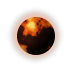
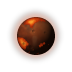
Mineral worlds: six new looks on one Mars-like surface
The six mineral world looks are redrawn on the same rusty surface as the
old iron world, each with one kind of lava from the old looks (seas,
rivers, cracks, a rift, pools, volcanoes), so mineral worlds read as one
kind of planet on the map. The other planet images are unchanged.

Claude-Session: https://claude.ai/code/session_01DRKpqnCyrZwnZLKGJij4TG

Changed region(s): [[0.2222, 0.2222, 0.75, 0.75], [0.6389, 0.6111, 0.7222, 0.6944], [0.5, 0.7222, 0.5556, 0.7778]]

diff --git a/tools/make_planet_types.py b/tools/make_planet_types.py
@@ -8,22 +8,24 @@ made from a make_art.py planet:
 and drawn fresh:
 
     planet-life1.png     planet.png redrawn: green land, blue seas, cloud, haze
-    planet-mineral1.png  planet5.png redrawn: black crust and glowing lava seas
     planet-dead1.png     planet6.png redrawn: grey regolith, plains, old craters
 
     planet-life2.png     continents of forest, savanna and desert in teal
                          seas, small polar caps
-    planet-mineral2.png  dark-red world with glowing veins
     planet-life3.png     ocean world: scattered islands under swirling cloud
-    planet-mineral3.png  dark red crust in plates, some rich in copper ore,
-                         with craters
     planet-dead3.png     dusty brown-grey world with dark basins and a rayed crater
     planet-life4.png     jungle: emerald forest, small lakes and rivers
     planet-life5.png     archipelago: turquoise seas, small sandy islands
     planet-life6.png     green continents, brown uplands, small deserts
-    planet-mineral4.png  iron world: rusty plains glittering with ore
-    planet-mineral5.png  pool world: dark rock pocked with small lava pools
-    planet-mineral6.png  volcanic world: grey-brown basalt, calderas, lava flows
+
+and six mineral worlds, all on the same rusty, Mars-like surface:
+
+    planet-mineral1.png  lava seas in the lowlands
+    planet-mineral2.png  thin lava rivers
+    planet-mineral3.png  plates split by wandering lava cracks
+    planet-mineral4.png  one long rift canyon with lava on its floor, ore, craters
+    planet-mineral5.png  many small lava pools
+    planet-mineral6.png  volcanoes: glowing calderas and lava flows
 
     tools/make_planet_types.py [--out ADDON_DIR]
 
@@ -126,25 +128,6 @@ def craters(src, rng, count=34, basins=0):
     return Image.fromarray(img.clip(0, 255).astype(np.uint8), "RGBA")
 
 
-def mineral_world(rng):
-    """Dark red rock cut by rivers of orange-red lava, in planet5's red glow."""
-    nx, ny, nz, inside = sphere_coords()
-    n = HEX * SS
-    rock = ramp(noise(rng, n, base=3), [(30, 9, 8), (56, 16, 12), (84, 24, 16), (104, 32, 20)])
-    # rivers: ridges of two noise fields, wide channels with a hot core
-    river = np.zeros((n, n), np.float32)
-    for b, wdt in ((4, 0.075), (7, 0.05)):
-        r = noise(rng, n, base=b, octaves=4)
-        river = np.maximum(river, np.clip(1 - np.abs(r - 0.5) / wdt, 0, 1))
-    river *= np.clip((noise(rng, n, base=3) - 0.12) * 3, 0, 1)   # a few breaks
-    lava = ramp(river, [(110, 20, 8), (170, 40, 10), (215, 70, 16), (240, 110, 30)])
-    s = shade(nx, ny, nz)
-    # keep the lava off the limb so the planet has a clean dark outline
-    m = np.clip(river * 2.2, 0, 1) * limb_fade(nx, ny)
-    m = m[..., None]
-    # lava glows on its own, a little dimmer on the night side
-    rgb = rock * s[..., None] * (1 - m) + lava * (0.6 + 0.4 * s)[..., None] * m
-    return textured_sphere(rgb, glow=(220, 60, 40), lit=True)
 
 
 def textured_sphere(rgb, glow=None, lift=None, atmo=None, lit=False):
@@ -223,44 +206,6 @@ def limb_fade(nx, ny, start=0.82):
     return np.clip((1 - np.sqrt(nx ** 2 + ny ** 2)) / (1 - start), 0, 1)
 
 
-def mineral_world3(rng):
-    """A few huge dark continents of rock, split here and there by thin
-    orange cracks of lava."""
-    nx, ny, nz, inside = sphere_coords()
-    n = HEX * SS
-    # wobble the normals so the cracks wander instead of running straight
-    w = 0.10
-    wx, wy, wz = (noise(rng, n, base=5, octaves=5) - 0.5 for _ in range(3))
-    v = np.stack([nx + w * wx, ny + w * wy, nz + w * wz], -1).reshape(-1, 3)
-    v /= np.linalg.norm(v, axis=1, keepdims=True)
-    pts = rng.normal(size=(14, 3))
-    pts /= np.linalg.norm(pts, axis=1, keepdims=True)
-    ang = np.arccos(np.clip(v @ pts.T, -1, 1))
-    order = np.argsort(ang, axis=1)
-    first, second = order[:, 0], order[:, 1]
-    gap = (np.take_along_axis(ang, order[:, 1:2], 1) - np.take_along_axis(ang, order[:, :1], 1))[:, 0]
-    # only some borders crack open; the rest are solid rock
-    k = len(pts)
-    opened = rng.random((k, k)) < 0.6
-    opened = opened | opened.T
-    crack = opened[first, second] * np.clip(1 - gap / 0.02, 0, 1)
-    crack = crack.reshape(n, n) * limb_fade(nx, ny)
-    warm = (opened[first, second] * np.clip(1 - gap / 0.07, 0, 1)).reshape(n, n) * limb_fade(nx, ny)
-    tone = rng.random(k)[first].reshape(n, n)
-    grain = noise(rng, n, base=6, octaves=6)
-    rock = ramp(np.clip(0.45 * tone + 0.55 * grain, 0, 1),
-                [(48, 15, 13), (76, 24, 17), (108, 36, 22), (138, 52, 30)])
-    fine = noise(rng, n, base=14, octaves=3)
-    rock *= (0.72 + 0.56 * fine)[..., None]                # rough, mottled rock
-    low = np.clip((0.42 - noise(rng, n, base=4, octaves=4)) * 4, 0, 0.5)[..., None]
-    rock = rock * (1 - low) + np.array([34, 11, 10], np.float32) * low   # dark lowlands
-    # the rock beside a crack is heated a dull red
-    rock = rock * (1 - 0.5 * warm[..., None]) + np.array([150, 40, 16], np.float32) * 0.5 * warm[..., None]
-    s = shade(nx, ny, nz)
-    hot = np.array([250, 120, 30], np.float32) * (0.7 + 0.3 * s)[..., None]
-    c = crack[..., None]
-    rgb = rock * s[..., None] * (1 - c) + hot * c
-    return textured_sphere(rgb, glow=(220, 60, 40), lit=True)
 
 
 def spend(rng, *bases):
@@ -308,20 +253,6 @@ def life_world1(rng):
     return textured_sphere(rgb, glow=(120, 170, 255), atmo=(140, 190, 255))
 
 
-def mineral_world1(rng):
-    """planet5.png's molten world, redrawn: a black crust split by seas of
-    lava that glow yellow at their hearts and on the night side too."""
-    nx, ny, nz, inside = sphere_coords()
-    n = HEX * SS
-    melt = 0.6 * noise(rng, n, base=8, octaves=5) + 0.4 * noise(rng, n, base=3)
-    shore = np.quantile(melt[inside], 0.6)      # lava covers about 40%
-    crust = ramp(noise(rng, n, base=8), [(34, 14, 12), (60, 24, 16), (86, 36, 22)])
-    heat = np.clip((melt - shore) / 0.25, 0, 1)
-    lava = ramp(heat, [(150, 30, 8), (225, 80, 12), (255, 150, 30), (255, 220, 110)])
-    m = np.clip((melt - shore) * 30, 0, 1)
-    s = shade(nx, ny, nz)
-    rgb = crust * s[..., None] * (1 - m[..., None]) + lava * (0.55 + 0.45 * s)[..., None] * m[..., None]
-    return textured_sphere(rgb, glow=(255, 110, 50), lit=True)
 
 
 def dead_world1(rng):
@@ -394,72 +325,143 @@ def life_world6(rng):
     return textured_sphere(rgb, glow=(120, 180, 255), atmo=(150, 200, 255))
 
 
-def mineral_world4(rng):
-    """Iron world: rusty oxide plains and darker iron highlands, glittering
-    with flecks of copper and gold ore."""
-    nx, ny, nz, inside = sphere_coords()
-    n = HEX * SS
-    rgb = ramp(noise(rng, n, base=4, octaves=6), [(60, 22, 14), (110, 44, 22), (150, 66, 30), (176, 92, 46)])
-    high = np.clip((noise(rng, n, base=3, octaves=5) - 0.55) * 4, 0, 0.6)[..., None]
-    rgb = rgb * (1 - high) + np.array([46, 34, 32], np.float32) * high
-    fl = (rng.random((n, n)) < 0.004).astype(np.float32)
-    fl = np.asarray(Image.fromarray((fl * 255).astype(np.uint8)).filter(ImageFilter.MaxFilter(5)), np.float32) / 255
-    fl *= np.clip((noise(rng, n, base=5) - 0.35) * 3, 0, 1)
-    gold = np.where(rng.random((n, n)) < 0.5, 1.0, 0.0)[..., None]
-    ore = np.array([240, 200, 90], np.float32) * gold + np.array([230, 130, 70], np.float32) * (1 - gold)
-    rgb = rgb * (1 - fl[..., None]) + ore * fl[..., None]
-    return craters(textured_sphere(rgb, glow=(210, 90, 50)), rng, count=8)
 
+
+
+
+
+
+# The mineral worlds all share a Mars-like rusty surface (mars()), each with
+# its own kind of lava on it.
+MARS_GLOW = (210, 90, 50)
+
+def mars(rng):
+    n = HEX * SS
+    """Mineral v4's rusty base: oxide plains, dark iron highlands, pale dust."""
+    rgb = ramp(noise(rng, n, base=4, octaves=6), [(70, 26, 16), (118, 48, 24), (156, 70, 32), (182, 98, 50)])
+    high = np.clip((noise(rng, n, base=3, octaves=5) - 0.55) * 4, 0, 0.6)[..., None]
+    rgb = rgb * (1 - high) + np.array([52, 34, 30], np.float32) * high
+    dust = np.clip((noise(rng, n, base=5, octaves=4) - 0.62) * 3, 0, 0.35)[..., None]
+    rgb = rgb * (1 - dust) + np.array([200, 130, 80], np.float32) * dust
+    return rgb
+
+def lava_blend(rgb, heat, s, nx, ny, pal=None, k=1.8):
+    """Lava over rgb where heat > 0, faded off the limb, glowing at night too."""
+    heat = heat * limb_fade(nx, ny)
+    pal = pal or [(120, 24, 8), (195, 56, 12), (236, 100, 22), (252, 160, 46)]
+    lava = ramp(heat, pal)
+    h = np.clip(heat * k, 0, 1)[..., None]
+    return rgb * (1 - h) + lava * (0.7 + 0.3 * s)[..., None] * h
+
+def mineral_world1(rng):
+    """Mars with a few lava seas in its lowlands (v1)."""
+    n = HEX * SS
+    nx, ny, nz, inside = sphere_coords()
+    s = shade(nx, ny, nz)
+    rgb = mars(rng) * s[..., None]
+    melt = 0.6 * noise(rng, n, base=6, octaves=5) + 0.4 * noise(rng, n, base=3)
+    shore = np.quantile(melt[inside], 0.78)
+    heat = np.clip((melt - shore) / 0.18, 0, 1)
+    rgb = lava_blend(rgb, np.clip(heat * 0.85 + (melt > shore) * 0.15, 0, 1), s, nx, ny, k=6)
+    return craters(textured_sphere(rgb, glow=MARS_GLOW, lit=True), rng, count=6)
+
+def mineral_world2(rng):
+    """Mars cut by thin orange-red lava rivers (v2)."""
+    n = HEX * SS
+    nx, ny, nz, inside = sphere_coords()
+    s = shade(nx, ny, nz)
+    rgb = mars(rng) * s[..., None]
+    river = np.zeros((n, n), np.float32)
+    for b, w in ((4, 0.04), (7, 0.028)):
+        r = noise(rng, n, base=b, octaves=4)
+        river = np.maximum(river, np.clip(1 - np.abs(r - 0.5) / w, 0, 1))
+    river *= np.clip((noise(rng, n, base=3) - 0.2) * 3, 0, 1)
+    return textured_sphere(lava_blend(rgb, river, s, nx, ny, k=2.2), glow=MARS_GLOW, lit=True)
+
+def mineral_world3(rng):
+    """Mars in huge plates split by thin glowing cracks (v3)."""
+    n = HEX * SS
+    nx, ny, nz, inside = sphere_coords()
+    s = shade(nx, ny, nz)
+    w = 0.26
+    wx, wy, wz = (noise(rng, n, base=4, octaves=6) - 0.5 for _ in range(3))
+    v = np.stack([nx + w * wx, ny + w * wy, nz + w * wz], -1).reshape(-1, 3)
+    v /= np.linalg.norm(v, axis=1, keepdims=True)
+    pts = rng.normal(size=(30, 3)); pts /= np.linalg.norm(pts, axis=1, keepdims=True)
+    ang = np.arccos(np.clip(v @ pts.T, -1, 1)); order = np.argsort(ang, axis=1)
+    gap = (np.take_along_axis(ang, order[:, 1:2], 1) - np.take_along_axis(ang, order[:, :1], 1))[:, 0]
+    k = len(pts); opened = rng.random((k, k)) < 0.75; opened = opened | opened.T
+    op = opened[order[:, 0], order[:, 1]]
+    crack = (op * np.clip(1 - gap / 0.025, 0, 1)).reshape(n, n)
+    warm = (op * np.clip(1 - gap / 0.07, 0, 1)).reshape(n, n)
+    tone = (rng.random(k)[order[:, 0]].reshape(n, n) - 0.5) * 0.12 + 0.95
+    rgb = mars(rng) * tone[..., None]
+    rgb = rgb * (1 - 0.4 * warm[..., None]) + np.array([150, 44, 18], np.float32) * 0.4 * warm[..., None]
+    rgb = rgb * s[..., None]
+    return textured_sphere(lava_blend(rgb, crack, s, nx, ny, pal=[(230, 80, 18), (255, 135, 36)], k=3),
+                           glow=MARS_GLOW, lit=True)
 
 def mineral_world5(rng):
-    """Pool world: dark red rock pocked with many small pools of lava."""
-    nx, ny, nz, inside = sphere_coords()
+    """Mars pocked with small lava pools (v5)."""
     n = HEX * SS
-    rgb = ramp(noise(rng, n, base=6, octaves=6), [(30, 10, 12), (52, 16, 18), (74, 24, 24), (92, 32, 28)])
+    nx, ny, nz, inside = sphere_coords()
     s = shade(nx, ny, nz)
-    rgb = rgb * s[..., None]
-    pools = noise(rng, n, base=22, octaves=2)
-    edge = np.quantile(pools[inside], 0.84)
-    glow = np.clip((pools - edge) / 0.08, 0, 1)        # many small lava pools
-    glow *= limb_fade(nx, ny)
-    crystal = ramp(glow, [(130, 26, 8), (210, 66, 14), (245, 120, 30)])
-    g = glow[..., None]
-    rgb = rgb * (1 - g) + crystal * (0.7 + 0.3 * s)[..., None] * g
-    return textured_sphere(rgb, glow=(220, 60, 40), lit=True)
-
+    rgb = mars(rng) * s[..., None]
+    pools = noise(rng, n, base=20, octaves=2)
+    edge = np.quantile(pools[inside], 0.88)
+    heat = np.clip((pools - edge) / 0.08, 0, 1)
+    return craters(textured_sphere(lava_blend(rgb, heat, s, nx, ny, k=3), glow=MARS_GLOW, lit=True), rng, count=5)
 
 def mineral_world6(rng):
-    """Volcanic world: grey-brown basalt with a few glowing calderas, each
-    spilling short orange-red lava flows."""
-    nx, ny, nz, inside = sphere_coords()
+    """Mars with a few big volcanoes, glowing calderas and lava flows (v6)."""
     n = HEX * SS
-    rgb = ramp(noise(rng, n, base=6, octaves=6), [(56, 44, 40), (84, 64, 56), (112, 86, 72), (136, 106, 88)])
+    nx, ny, nz, inside = sphere_coords()
     s = shade(nx, ny, nz)
-    rgb = rgb * s[..., None]
+    rgb = mars(rng)
     yy, xx = np.mgrid[0:n, 0:n].astype(np.float32)
-    heat = np.zeros((n, n), np.float32)
+    heat = np.zeros((n, n), np.float32); cone = np.zeros((n, n), np.float32)
     wob = noise(rng, n, base=12, octaves=3)
-    for _ in range(5):
+    for _ in range(4):
         while True:
             u, v = rng.uniform(-0.75, 0.75, 2)
-            if u * u + v * v < 0.55:
-                break
+            if u * u + v * v < 0.55: break
         cx, cy = (CX + u * R) * SS, (CY + v * R) * SS
         d = np.hypot(xx - cx, yy - cy)
-        heat = np.maximum(heat, np.clip(1 - d / rng.uniform(7, 11), 0, 1))   # caldera
-        for _ in range(int(rng.integers(3, 6))):                            # flows
-            a = rng.uniform(0, 2 * np.pi)
-            ln = rng.uniform(18, 34)
+        cone = np.maximum(cone, np.clip(1 - d / 26, 0, 1))
+        heat = np.maximum(heat, np.clip(1 - d / rng.uniform(6, 9), 0, 1))
+        for _ in range(int(rng.integers(3, 6))):
+            a = rng.uniform(0, 2 * np.pi); ln = rng.uniform(16, 30)
             dx, dy = xx - cx, yy - cy
             along = dx * np.cos(a) + dy * np.sin(a)
             across = -dx * np.sin(a) + dy * np.cos(a) + 6 * (wob - 0.5)
-            flow = np.clip(1 - np.abs(across) / 2.4, 0, 1) * np.clip(1 - along / ln, 0, 1) * (along > 0)
-            heat = np.maximum(heat, flow * 0.8)
-    heat *= limb_fade(nx, ny)
-    lava = ramp(heat, [(120, 20, 8), (190, 46, 12), (230, 90, 20), (250, 150, 40)])
-    h = np.clip(heat * 1.8, 0, 1)[..., None]
-    rgb = rgb * (1 - h) + lava * (0.7 + 0.3 * s)[..., None] * h
-    return textured_sphere(rgb, glow=(200, 60, 40), lit=True)
+            heat = np.maximum(heat, 0.75 * np.clip(1 - np.abs(across) / 2.2, 0, 1) * np.clip(1 - along / ln, 0, 1) * (along > 0))
+    rgb = rgb * 1.3
+    rgb = rgb * (1 - 0.2 * cone[..., None]) + np.array([150, 84, 56], np.float32) * 0.2 * cone[..., None]
+    rgb = rgb * (0.25 + 0.75 * s)[..., None]
+    return textured_sphere(lava_blend(rgb, np.clip(heat * 1.2, 0, 1), s, nx, ny,
+                                      pal=[(170, 40, 10), (230, 80, 18), (252, 130, 34), (255, 190, 70)]),
+                           glow=(230, 110, 60), lit=True)
+
+def mineral_world4(rng):
+    """Mars split by one great glowing rift canyon, with ore flecks and craters (v4)."""
+    n = HEX * SS
+    nx, ny, nz, inside = sphere_coords()
+    s = shade(nx, ny, nz)
+    rgb = mars(rng)
+    wob = noise(rng, n, base=6, octaves=4) - 0.5
+    a = rng.uniform(-0.5, 0.5)
+    across = (-nx * np.sin(a) + ny * np.cos(a)) - 0.12 + 0.18 * wob
+    along = nx * np.cos(a) + ny * np.sin(a)
+    span = np.clip(1 - np.abs(along + 0.05) / 0.85, 0, 1) ** 0.3
+    canyon = np.clip(1 - np.abs(across) / 0.13, 0, 1) ** 0.7 * span
+    rgb = rgb * (1 - 0.8 * canyon[..., None]) + np.array([30, 12, 10], np.float32) * 0.8 * canyon[..., None]
+    floor = np.clip(1 - np.abs(across) / 0.04, 0, 1) * span
+    fl = (rng.random((n, n)) < 0.003).astype(np.float32)
+    fl = np.asarray(Image.fromarray((fl * 255).astype(np.uint8)).filter(ImageFilter.MaxFilter(5)), np.float32) / 255
+    fl *= np.clip((noise(rng, n, base=5) - 0.4) * 3, 0, 1)
+    rgb = rgb * (1 - fl[..., None]) + np.array([235, 160, 80], np.float32) * fl[..., None]
+    rgb = rgb * s[..., None]
+    return craters(textured_sphere(lava_blend(rgb, floor, s, nx, ny, k=1.6), glow=MARS_GLOW, lit=True), rng, count=7)
 
 
 def main():
@@ -471,20 +473,23 @@ def main():
     rng = np.random.default_rng(args.seed)
     life_world2(np.random.default_rng(args.seed + 1)).save(os.path.join(d, "planet-life2.png"))
     spend(rng, 6)                         # the first life world v2
-    mineral_world(rng).save(os.path.join(d, "planet-mineral2.png"))
+    spend(rng, 3)                         # the old mineral world v2
+    for b in (4, 7):
+        noise(rng, HEX * SS, base=b, octaves=4)
+    spend(rng, 3)
     craters(Image.open(os.path.join(d, "planet6.png")).convert("RGBA"), rng).save(
         os.path.join(d, "planet-dead2.png"))
     life_world3(rng).save(os.path.join(d, "planet-life3.png"))
-    mineral_world3(np.random.default_rng(args.seed + 2)).save(os.path.join(d, "planet-mineral3.png"))
     spend(rng, 3, 6, None, 4)             # the first mineral world v3
     dead_world3(rng).save(os.path.join(d, "planet-dead3.png"))
     life_world1(np.random.default_rng(args.seed + 3)).save(os.path.join(d, "planet-life1.png"))
-    mineral_world1(np.random.default_rng(args.seed + 4)).save(os.path.join(d, "planet-mineral1.png"))
     dead_world1(np.random.default_rng(args.seed + 5)).save(os.path.join(d, "planet-dead1.png"))
-    for k, make in enumerate((life_world4, life_world5, life_world6,
-                              mineral_world4, mineral_world5, mineral_world6)):
+    for k, make in enumerate((life_world4, life_world5, life_world6)):
         kind, v = make.__name__.split("_world")
         make(np.random.default_rng(args.seed + 10 + k)).save(os.path.join(d, f"planet-{kind}{v}.png"))
+    for k, make in enumerate((mineral_world1, mineral_world2, mineral_world3,
+                              mineral_world4, mineral_world5, mineral_world6)):
+        make(np.random.default_rng(3030 + k)).save(os.path.join(d, f"planet-mineral{k + 1}.png"))
 
 
 if __name__ == "__main__":
